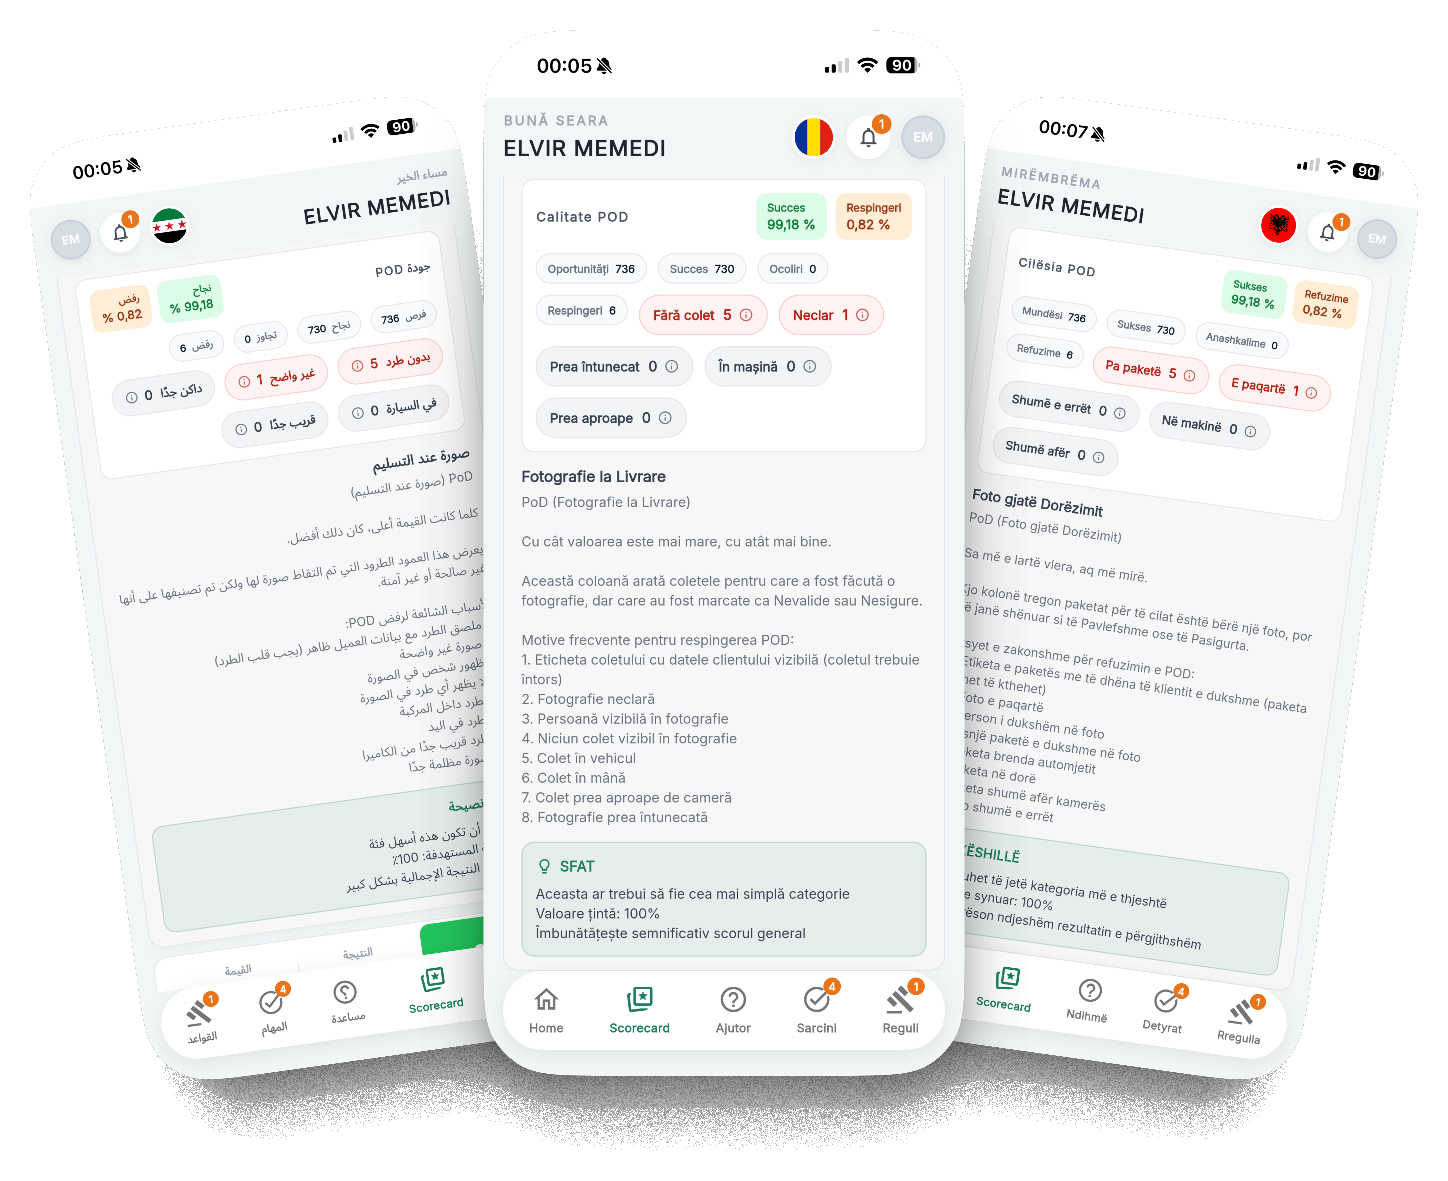
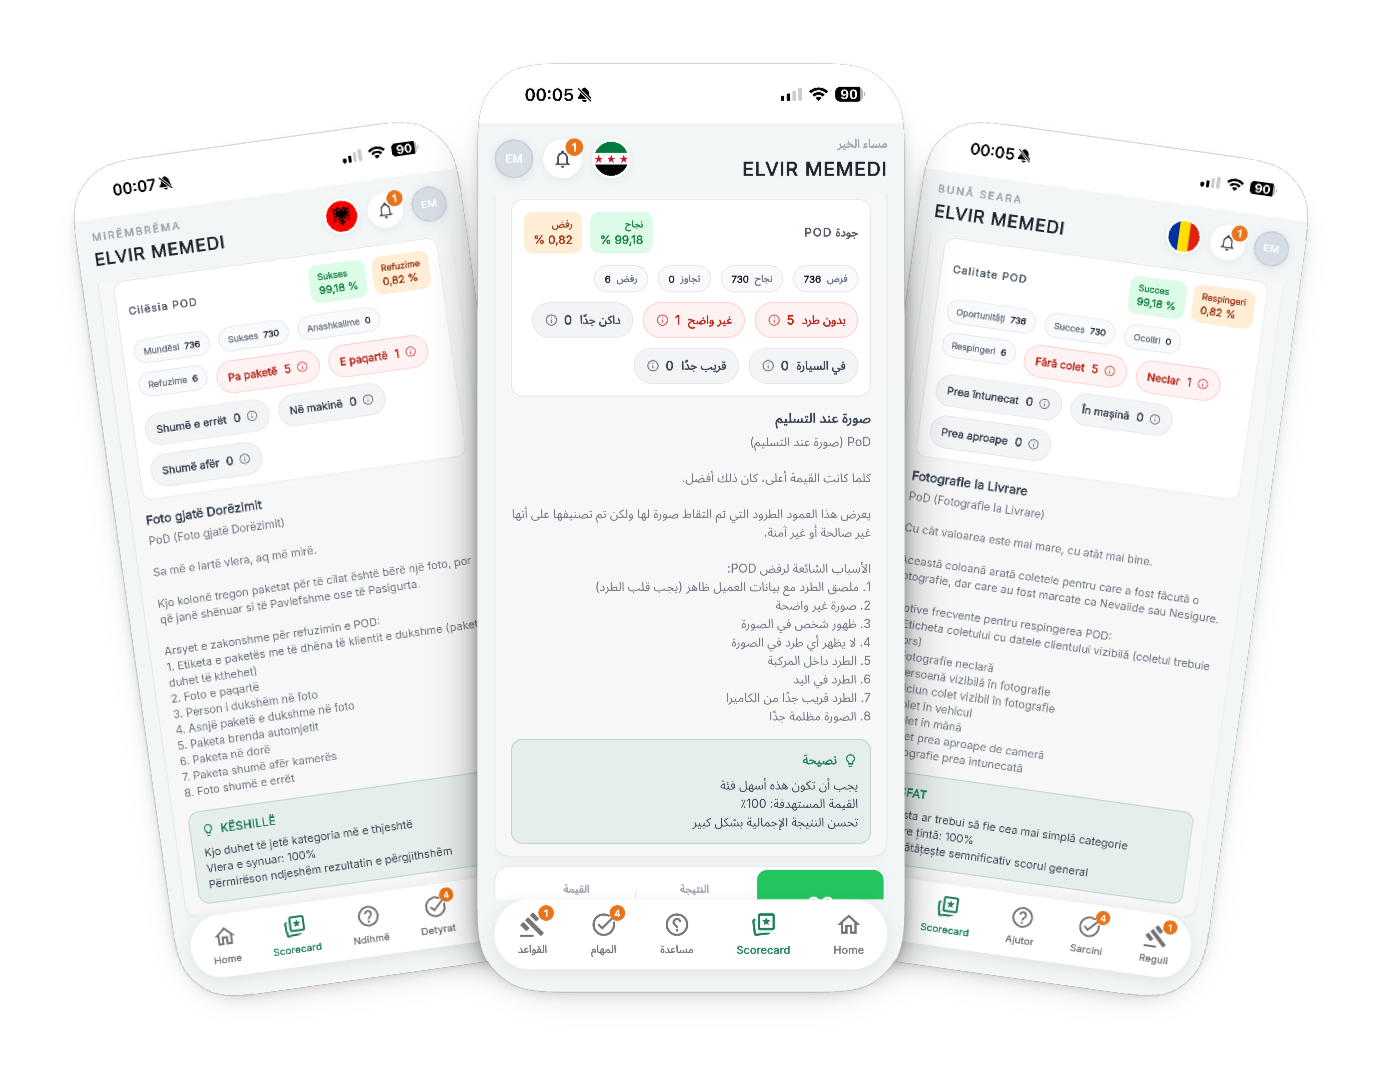
feat(landing): echte App-Mockups in Hero, Scorecard, Regeln, Recruiting & Inventory
Freigestellte (transparente) Mockups aus assets/Landingpage eingebunden:
Hero, Herzstueck-Scorecard, Firmenregeln, Recruiting-Pipeline und neue
Inventory-Section. Platzhalter ersetzt; einheitlicher Drop-Shadow-Look.

Changed region(s): [[0.0311, 0.0304, 0.9652, 0.9724], [0.5605, 0.3646, 0.6227, 0.395]]

diff --git a/flutter_app/kpi_admin/web/start/index.html b/flutter_app/kpi_admin/web/start/index.html
@@ -146,8 +146,8 @@
     .hero-cta { display: flex; gap: 14px; justify-content: flex-start; margin-top: 34px; flex-wrap: wrap; }
     .hero-cta .btn { width: 220px; }
     .hero-visual { margin-top: 0; }
-    .hero-shot { max-width: 100%; margin: 0; border-radius: 28px; overflow: hidden; box-shadow: 0 50px 90px -55px rgba(0,0,0,0.35); }
-    .hero-shot img { width: 100%; height: auto; display: block; }
+    .hero-shot { max-width: 100%; margin: 0; }
+    .hero-shot img { width: 100%; height: auto; display: block; filter: drop-shadow(0 30px 50px rgba(0,0,0,0.16)); }
 
     /* ---------- Image placeholder ---------- */
     .ph {
@@ -310,7 +310,7 @@
         </div>
         <div class="hero-visual reveal" style="--d:240ms">
           <div class="hero-shot">
-            <img src="img/hero.png" width="1920" height="1920" alt="CoDriver App – Scorecard und Driver-Ansicht auf dem Smartphone" />
+            <img src="img/hero.png" width="853" height="692" alt="CoDriver App – Dashboard, Scorecard und Driver-Ansicht auf dem Smartphone" />
           </div>
         </div>
       </div>
@@ -336,7 +336,7 @@
         </div>
         <div class="visual reveal" style="--d:80ms">
           <div class="feature-shot">
-            <img src="img/scorecard-langs.png" width="1448" height="1181" loading="lazy" alt="CoDriver Scorecard in mehreren Sprachen – Deutsch, Albanisch und Arabisch" />
+            <img src="img/scorecard-langs.png" width="1381" height="1086" loading="lazy" alt="CoDriver Scorecard in mehreren Sprachen – Deutsch, Albanisch und Arabisch" />
           </div>
         </div>
       </div>
@@ -356,8 +356,8 @@
           </ul>
         </div>
         <div class="visual reveal" style="--d:80ms">
-          <div class="ph tall" role="img" aria-label="Platzhalter: Digitales Handbuch und FAQ">
-            <svg class="glyph" viewBox="0 0 24 24" fill="none"><path d="M4 5a2 2 0 012-2h7l5 5v11a2 2 0 01-2 2H6a2 2 0 01-2-2V5z" stroke="currentColor" stroke-width="1.5" stroke-linejoin="round"/><path d="M13 3v5h5M8 13h8M8 16h5" stroke="currentColor" stroke-width="1.5" stroke-linecap="round"/></svg>
+          <div class="feature-shot">
+            <img src="img/firmenregeln.png" width="998" height="1299" loading="lazy" alt="CoDriver Firmenregeln mit Lesebestätigung und PIN-Eingabe" />
           </div>
         </div>
       </div>
@@ -377,8 +377,8 @@
           </ul>
         </div>
         <div class="visual reveal" style="--d:80ms">
-          <div class="ph tall" role="img" aria-label="Platzhalter: Recruiting- und Onboarding-Formular">
-            <svg class="glyph" viewBox="0 0 24 24" fill="none"><rect x="4" y="3" width="16" height="18" rx="2" stroke="currentColor" stroke-width="1.5"/><path d="M8 8h8M8 12h8M8 16h5" stroke="currentColor" stroke-width="1.5" stroke-linecap="round"/></svg>
+          <div class="feature-shot">
+            <img src="img/recruiting.png" width="736" height="1368" loading="lazy" alt="CoDriver Recruiting- und Onboarding-Pipeline mit Bewerbern" />
           </div>
         </div>
       </div>
@@ -409,6 +409,27 @@
             <h3>Shiftplan &amp; Waveplan</h3>
             <p>Einfacher Upload, schnelle Planung. Schichten und Wellen in Minuten statt Stunden organisiert.</p>
             <div class="ph small square" role="img" aria-label="Platzhalter: Schichtplanung"><svg class="glyph" viewBox="0 0 24 24" fill="none"><path d="M12 3v9l5 3" stroke="currentColor" stroke-width="1.5" stroke-linecap="round" stroke-linejoin="round"/><circle cx="12" cy="12" r="9" stroke="currentColor" stroke-width="1.5"/></svg></div>
+          </div>
+        </div>
+      </div>
+    </section>
+
+    <!-- INVENTORY -->
+    <section id="inventory" class="band">
+      <div class="container feature-row reverse">
+        <div class="feature-copy copy reveal">
+          <span class="eyebrow">Inventory</span>
+          <h2 class="h2">Bestand im Griff — vom Sicherheitsschuh bis zum Ersatzteil.</h2>
+          <p>Arbeitskleidung und Fahrzeugteile zentral verwalten: anlegen, ausgeben, nachbestellen — jederzeit nachvollziehbar.</p>
+          <ul class="ul-check">
+            <li><svg viewBox="0 0 24 24" fill="none"><path d="M20 6L9 17l-5-5" stroke="currentColor" stroke-width="2.4" stroke-linecap="round" stroke-linejoin="round"/></svg>Katalog mit Kategorien, Größen &amp; Lieferanten</li>
+            <li><svg viewBox="0 0 24 24" fill="none"><path d="M20 6L9 17l-5-5" stroke="currentColor" stroke-width="2.4" stroke-linecap="round" stroke-linejoin="round"/></svg>Bestände &amp; Niedrigbestand-Warnungen auf einen Blick</li>
+            <li><svg viewBox="0 0 24 24" fill="none"><path d="M20 6L9 17l-5-5" stroke="currentColor" stroke-width="2.4" stroke-linecap="round" stroke-linejoin="round"/></svg>Neue Artikel in Sekunden angelegt</li>
+          </ul>
+        </div>
+        <div class="visual reveal" style="--d:80ms">
+          <div class="feature-shot">
+            <img src="img/inventory.png" width="750" height="971" loading="lazy" alt="CoDriver Inventory Tool – Bestand und neuer Artikel" />
           </div>
         </div>
       </div>
